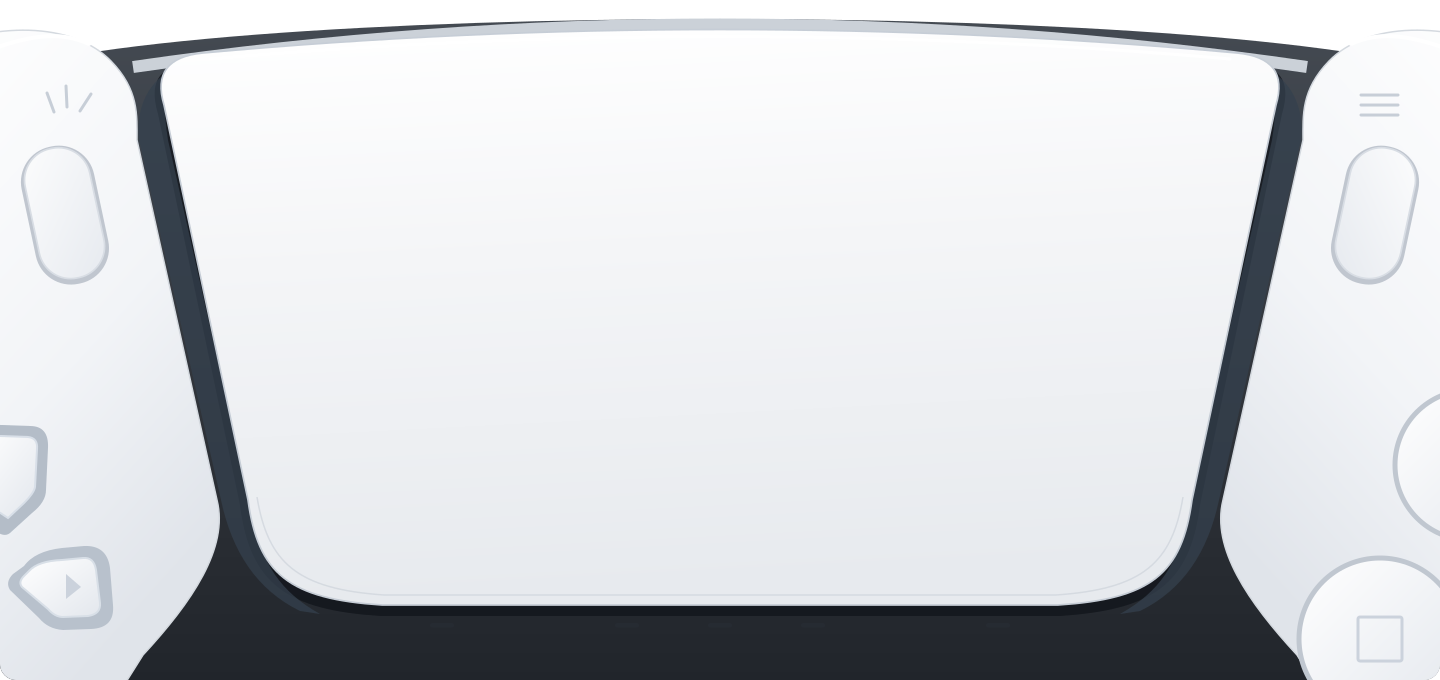
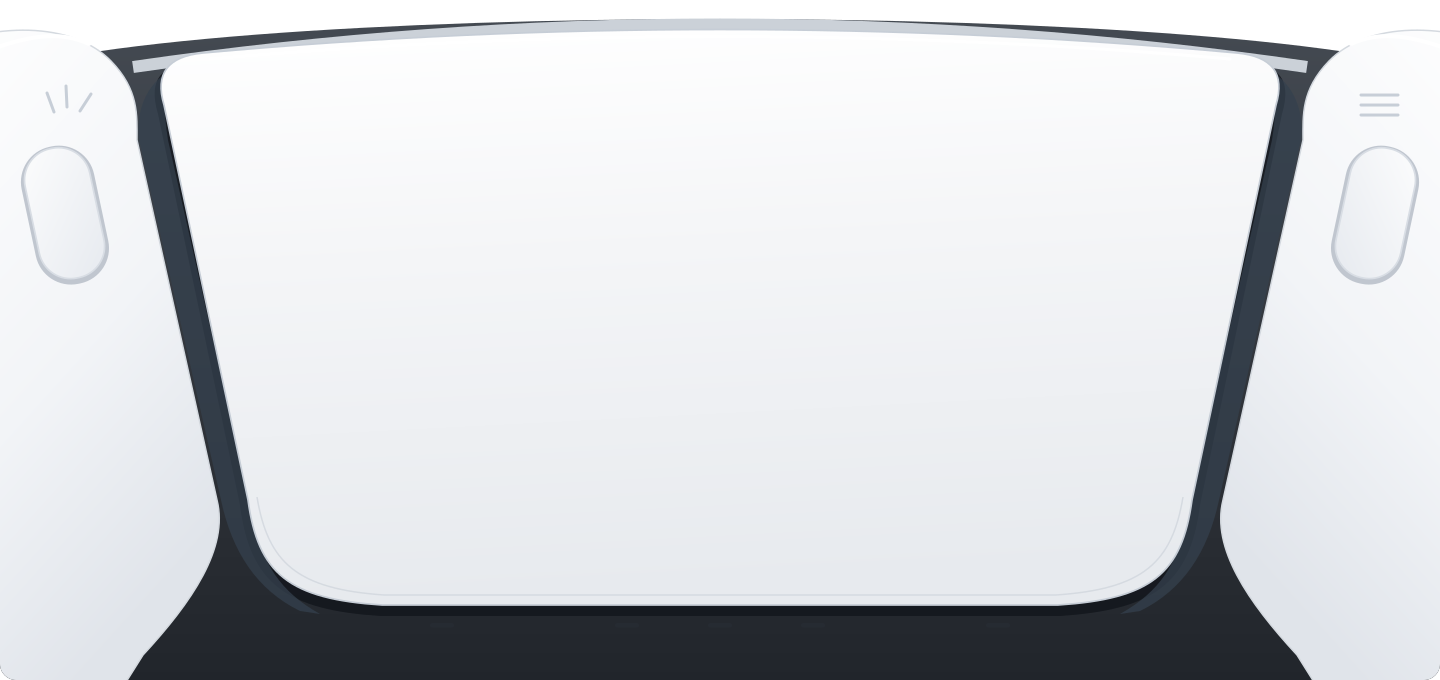
Remove D-pad and action buttons from lighting preview

diff --git a/src/DualSenseLighting/Plugin.cs b/src/DualSenseLighting/Plugin.cs
@@ -14,7 +14,7 @@ using DualSenseLighting.Core;
 using DualSenseLighting.Windows;
 using DualSenseLighting.Ui;
 
-[assembly: System.Reflection.AssemblyVersion("0.2.2.0")]
+[assembly: System.Reflection.AssemblyVersion("0.2.3.0")]
 
 namespace DualSenseLighting;
 

diff --git a/README.md b/README.md
@@ -33,6 +33,7 @@ addressed LEDs is not available through this protocol.
 
 The top of `/ds5light` shows a centered touchpad close-up with a white touchpad,
 tapered RGB lightpipes and five white player indicators along the lower rim.
+The D-pad and action-button details are omitted to keep the preview focused on lighting.
 Color, brightness, rainbow and breathing use the same effect engine and clock as
 the hardware output. Player indicators follow the actual five-bit masks, including
 the centered single light, inner pair, outer pair plus center, and four-light layout.
